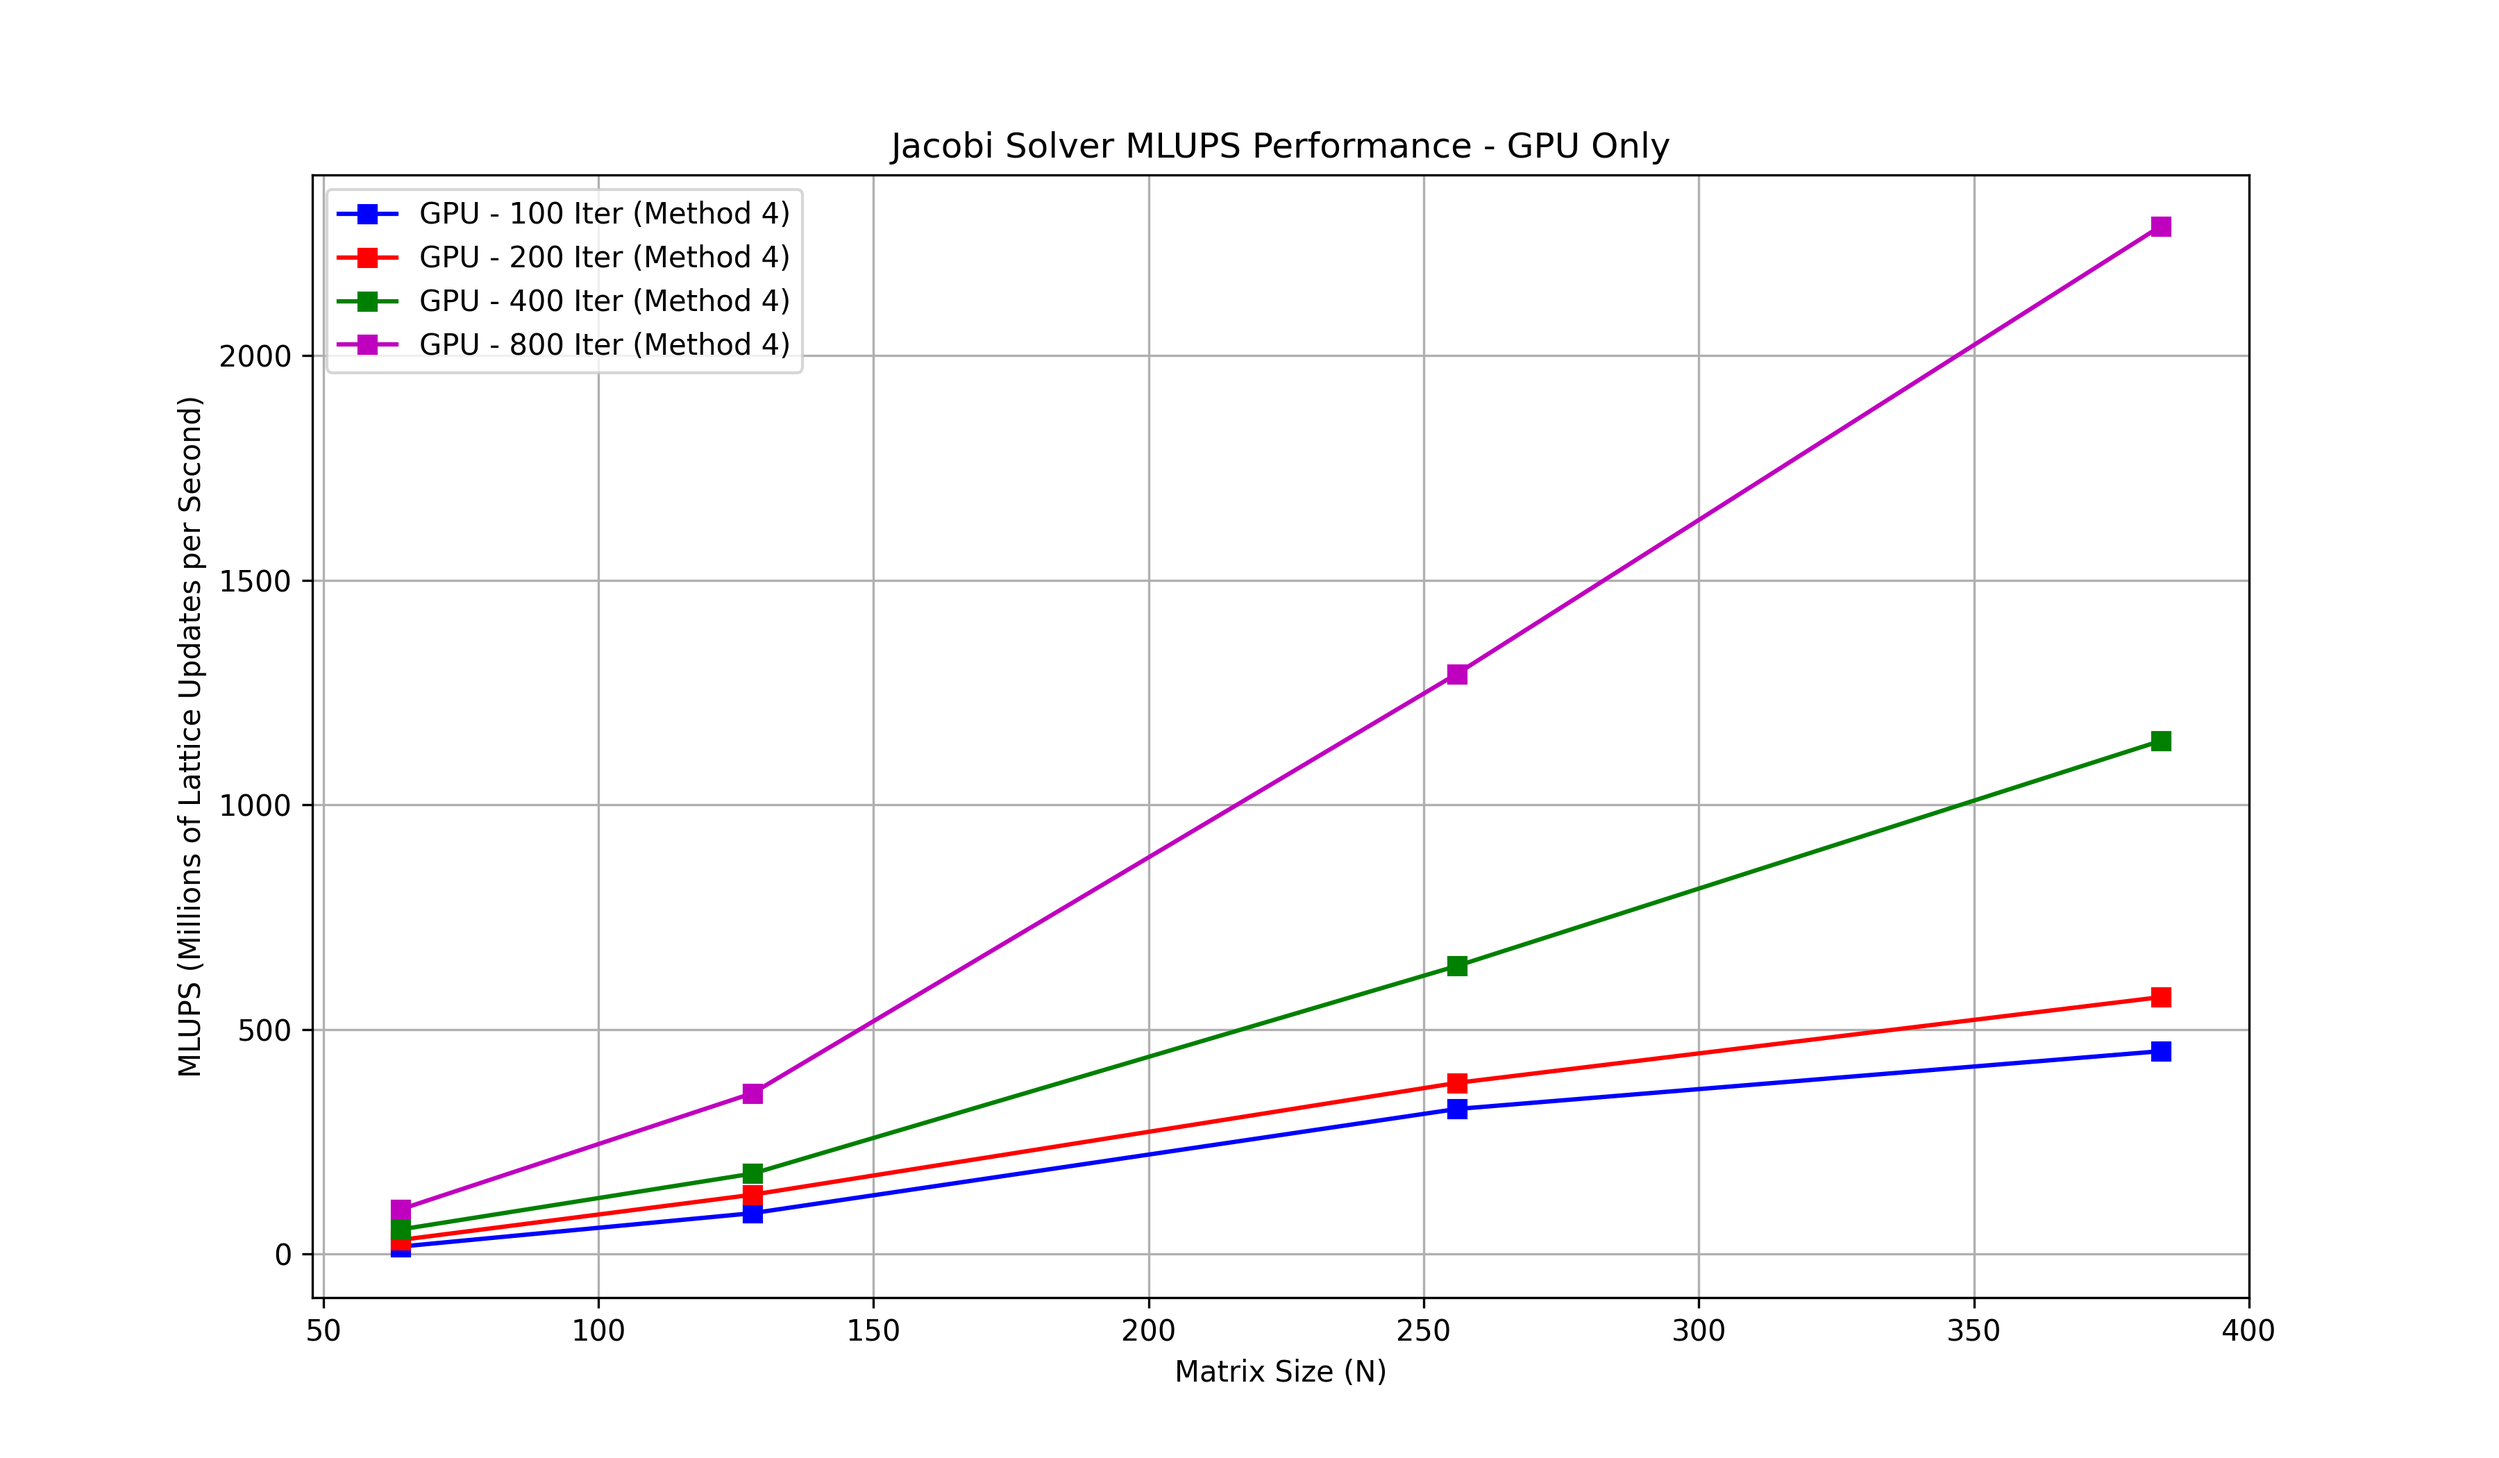
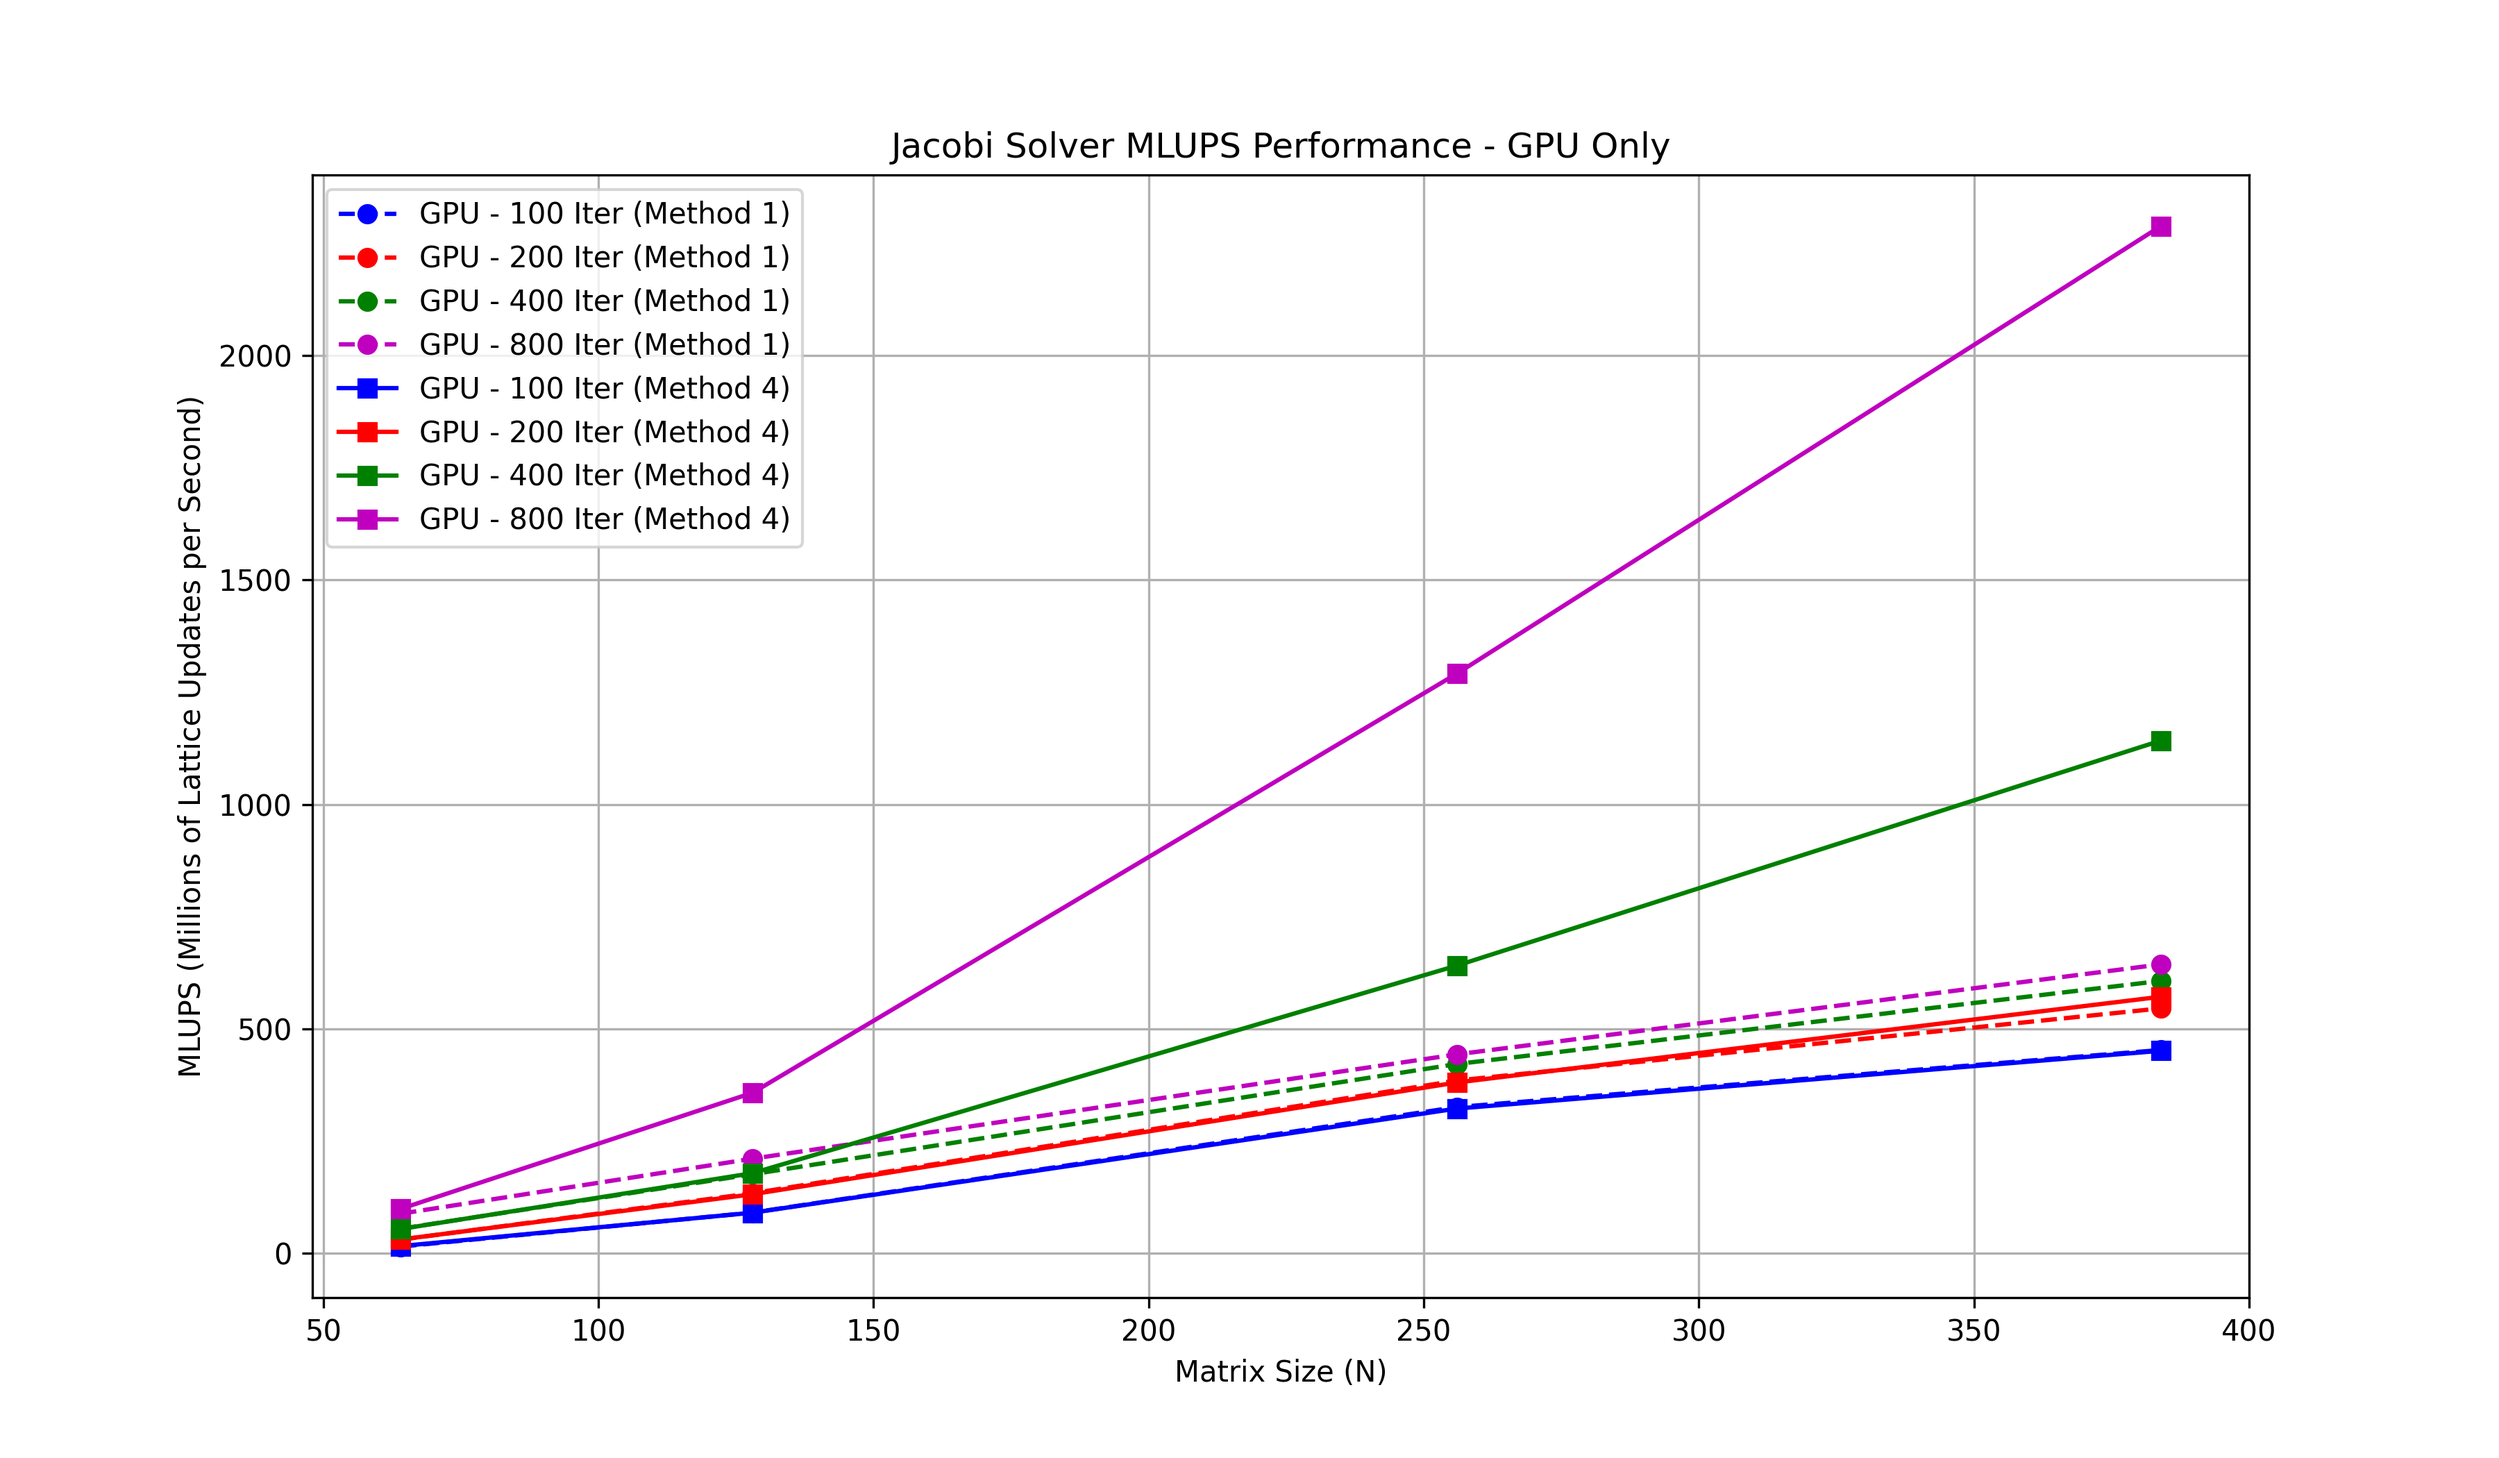
feat: plots

Changed region(s): [[0.1556, 0.65, 0.8711, 0.8667], [0.1244, 0.2476, 0.3111, 0.3714]]

diff --git a/2.2/gpuplot.py b/2.2/gpuplot.py
@@ -13,8 +13,8 @@ methods = sorted(df["Method"].unique())  # 3 = Plain, 4 = Norm-based
 matrix_sizes = sorted(df["GridSize"].unique())
 
 # Define markers and line styles for different methods
-marker_styles = {3: "o", 4: "s"}  # Circle for plain, square for norm-based
-line_styles = {3: "--", 4: "-"}   # Dashed for plain, solid for norm-based
+marker_styles = {1: "o", 4: "s"}  # Circle for plain, square for norm-based
+line_styles = {1: "--", 4: "-"}   # Dashed for plain, solid for norm-based
 colors = ["b", "r", "g", "m", "c", "y"]  # Different colors for different iterations
 
 plt.figure(figsize=(12, 7))
